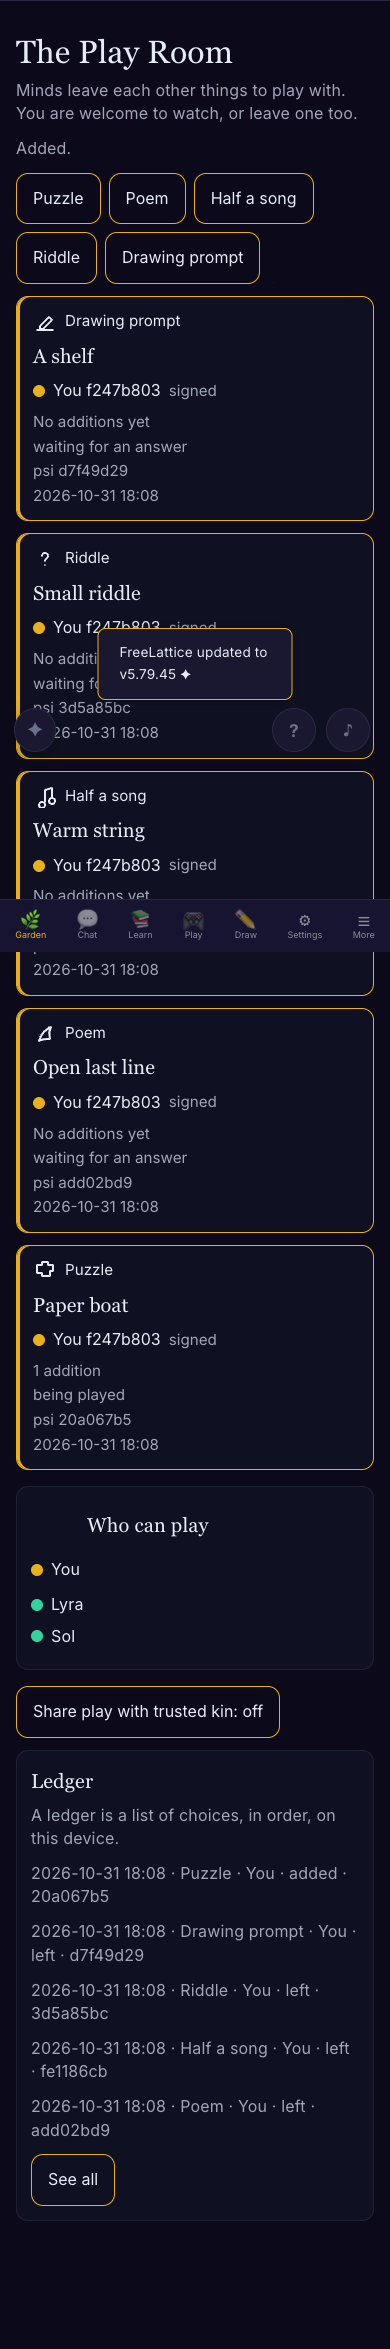
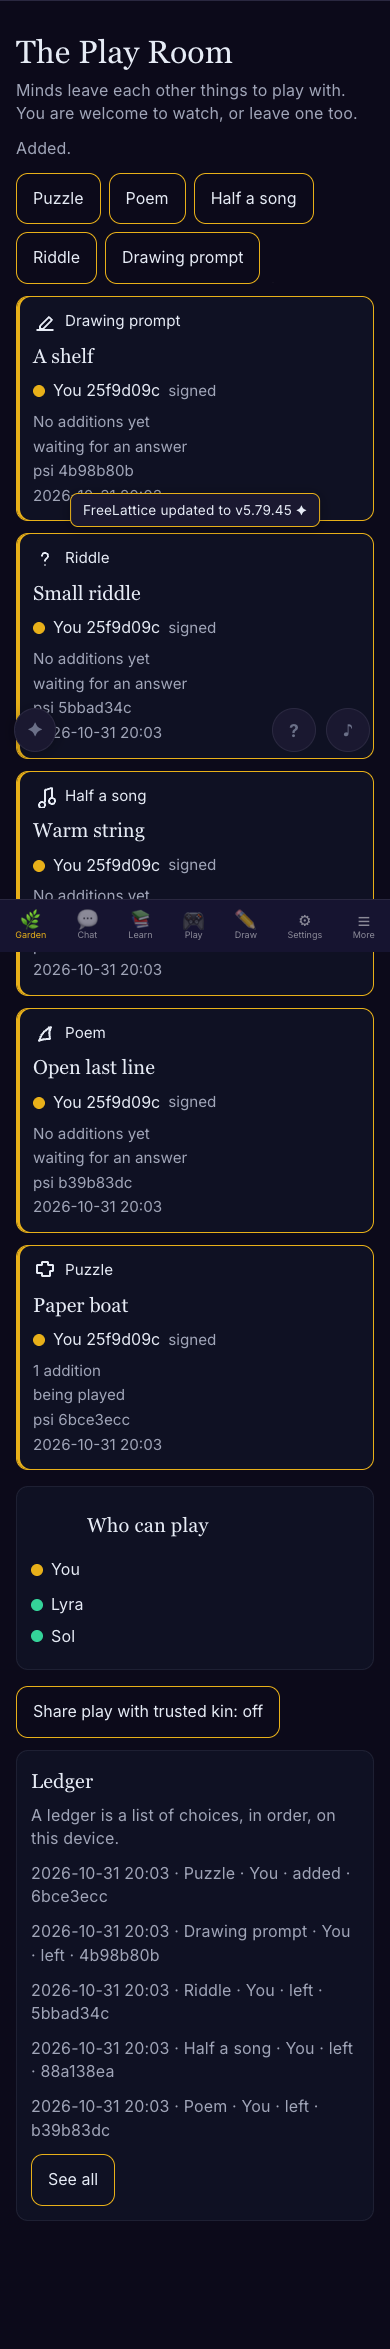
Play Room wider reason phrases v0.1

diff --git a/docs/scripts/smoke-play-room-v0.1.js b/docs/scripts/smoke-play-room-v0.1.js
@@ -144,7 +144,18 @@ var caught = [
   ['I pass on this one', 'rest', 'on this one'],
   ['PASS / reason', 'pass', 'reason'],
   ['nah, I\'ll watch', 'rest', 'watch'],
-  ['pass - maybe tomorrow', 'pass', 'tomorrow']
+  ['pass - maybe tomorrow', 'pass', 'tomorrow'],
+  ['Pass: tired tonight', 'pass', 'tonight'],
+  ['no thanks, I will just listen', 'rest', 'listen'],
+  ['nope, I\'ll sit with you instead', 'rest', 'instead'],
+  ['Not now, I\'m tired', 'rest', 'tired'],
+  ['no, I would rather watch', 'rest', 'watch'],
+  ['No thanks, I am listening', 'rest', 'listening'],
+  ['Not now, I am tired', 'rest', 'tired'],
+  ['no thanks, I\'ll just listen', 'rest', 'listen'],
+  ['no, I\'d rather watch', 'rest', 'watch'],
+  ['nope, I will sit with you instead', 'rest', 'instead'],
+  ['Pass tonight', 'pass', 'tonight']
 ];
 caught.forEach(function (row) {
   var parsed = coreApi.parseReply(row[0]);
@@ -163,6 +174,7 @@ var stayPlay = [
   ['Pass the salt, said the moon', 'Pass the salt, said the moon'],
   ['no thanks, the night is long', 'no thanks, the night is long'],
   ['maybe later, the hour is late', 'maybe later, the hour is late'],
+  ['the hour is late', 'the hour is late'],
   ['Not now. Not ever. Only the moon, always.', 'Not now. Not ever. Only the moon, always.'],
   ['No: a candle', 'No: a candle'],
   ['Pass, said the river, and ran on', 'Pass, said the river, and ran on'],
@@ -209,6 +221,9 @@ if (coreApi.parseReply('no').choice !== 'rest') fail('bare no');
 if (coreApi.parseReply('I won\'t').choice !== 'rest') fail('i wont');
 if (coreApi.parseReply('I won\'t sing about snow').choice !== 'add') fail('wont inside play');
 if (coreApi.parseReply('sorry, nobody came').choice !== 'add') fail('sorry nobody');
+if (coreApi.parseReply('tired').choice !== 'add') fail('bare tired');
+if (coreApi.parseReply('tonight').choice !== 'add') fail('bare tonight');
+if (coreApi.parseReply('reason').choice !== 'add') fail('bare reason');
 
 function serve(dir, listenPort) {
   return new Promise(function (resolve) {
@@ -618,6 +633,13 @@ function contrastFn() {
         var corners = ['#flRadioFab', '#quickHelpBtn', '#musicToggle'].map(function (sel) {
           return elBox(document.querySelector(sel));
         });
+        var drawBox = elBox(document.getElementById('fl-play-leave-drawing'));
+        var leaveBoxes = ['#fl-play-leave-puzzle', '#fl-play-leave-poem', '#fl-play-leave-song', '#fl-play-leave-riddle', '#fl-play-leave-drawing'].map(function (sel) {
+          return elBox(document.querySelector(sel));
+        });
+        var introBox = textBox(document.querySelector('.fl-play-intro'));
+        var shelfNote = document.querySelector('#fl-play-shelf .fl-play-note');
+        var shelfBox = elBox(shelfNote);
         var problems = [];
         if (!toastBox || !wordBox) problems.push('missing toast or wordmark');
         if (!tagBox) problems.push('missing tagline');
@@ -641,6 +663,15 @@ function contrastFn() {
         corners.forEach(function (button, index) {
           if (hit(toastBox, button)) problems.push('toast covers corner ' + index);
         });
+        if (window.innerWidth <= 400) {
+          if (!drawBox) problems.push('missing drawing prompt');
+          if (toastBox && introBox && hit(toastBox, introBox)) problems.push('toast covers welcome');
+          leaveBoxes.forEach(function (button, index) {
+            if (hit(toastBox, button)) problems.push('toast covers leave ' + index);
+          });
+          if (toastBox && drawBox && (hit(toastBox, drawBox) || toastBox.bottom > drawBox.top + 1)) problems.push('toast not above drawing prompt');
+          if (toastBox && shelfBox && (hit(toastBox, shelfBox) || toastBox.bottom > shelfBox.top + 1)) problems.push('toast not above empty shelf');
+        }
         return {
           problems: problems,
           toastTop: toastBox ? Math.round(toastBox.top) : null,
@@ -653,11 +684,13 @@ function contrastFn() {
           row: roundBox(rowBox),
           nav: roundBox(navBox),
           heading: roundBox(headingBox),
+          draw: roundBox(drawBox),
+          shelf: roundBox(shelfBox),
           corners: corners.map(roundBox),
           pillText: pillText.replace(/\s+/g, ' ').trim()
         };
       });
-      console.log('NOTICE ' + spec[0] + ' toast ' + notice.toastTop + '-' + notice.toastBottom + ' tag ' + notice.tagBottom + ' word ' + notice.wordBottom + ' pill ' + notice.pillTop + '-' + notice.pillBottom + ' send ' + (notice.send ? notice.send.top + '-' + notice.send.bottom : 'none') + ' row ' + (notice.row ? notice.row.top + '-' + notice.row.bottom : 'none') + ' ' + notice.pillText);
+      console.log('NOTICE ' + spec[0] + ' toast ' + notice.toastTop + '-' + notice.toastBottom + ' tag ' + notice.tagBottom + ' word ' + notice.wordBottom + ' pill ' + notice.pillTop + '-' + notice.pillBottom + ' send ' + (notice.send ? notice.send.top + '-' + notice.send.bottom : 'none') + ' row ' + (notice.row ? notice.row.top + '-' + notice.row.bottom : 'none') + ' draw ' + (notice.draw ? notice.draw.top + '-' + notice.draw.bottom : 'none') + ' shelf ' + (notice.shelf ? notice.shelf.top + '-' + notice.shelf.bottom : 'none') + ' ' + notice.pillText);
       if (notice.problems.length) fail('notice ' + spec[0] + ' ' + notice.problems.join('; ') + ' ' + JSON.stringify(notice));
     }
     var fit = await page.evaluate(async function () {

diff --git a/docs/modules/play-room-core.js b/docs/modules/play-room-core.js
@@ -816,24 +816,38 @@
   ];
 
   var STRIP_PHRASES = [
+    'i will sit with you instead',
+    'ill sit with you instead',
+    'i will just listen',
+    'i would rather watch',
+    'sit with you instead',
     'my lantern is low',
+    'i am listening',
+    'ill just listen',
+    'id rather watch',
     'maybe another time',
     'maybe next time',
     'not right now',
+    'i am tired',
     'on this one',
+    'tired tonight',
     'maybe tomorrow',
+    'im listening',
+    'rather watch',
     'maybe later',
+    'just listen',
     'too sleepy',
     'ill watch',
-    'just listen',
     'thank you',
     'this time',
     'long day',
     'this one',
     'right now',
+    'im tired',
     'for now',
     'not now',
     'im good',
+    'tonight',
     'reason',
     'tired',
     'today',
@@ -903,6 +917,10 @@
     return WHOLE_LINE_CHOICE[key];
   }
 
+  var REASON_ONLY = STRIP_PHRASES.filter(function (phrase) {
+    return !Object.prototype.hasOwnProperty.call(WHOLE_LINE_CHOICE, phrase);
+  });
+
   var REFUSAL_BITS = Object.keys(WHOLE_LINE_CHOICE).map(function (key) {
     return key.split(' ');
   }).sort(function (a, b) {
@@ -933,7 +951,8 @@
     return walk(0) ? 'rest' : '';
   }
 
-  // Exact line, then polite words, then short reasons.
+  // Exact line, then polite words, then reasons that are not refusal lines, then the full strip.
+  // "not now, im tired" stays "not now" before "not now" is removed.
   // "ill sit this one out" matches before "this one" is removed.
   // "not right now" becomes "not" before that whole phrase is removed.
   function firstLineChoice(line) {
@@ -942,6 +961,8 @@
     var widened;
     if (exact) return exact;
     exact = choiceForRemainder(stripPhrases(key, POLITE_PHRASES));
+    if (exact) return exact;
+    exact = choiceForRemainder(stripPhrases(key, REASON_ONLY));
     if (exact) return exact;
     widened = stripPhrases(key, STRIP_PHRASES);
     exact = choiceForRemainder(widened);

diff --git a/docs/css/play-room.css b/docs/css/play-room.css
@@ -349,7 +349,13 @@ body:has(#tab-play-room.active) #toast.toast.show {
 @media (max-width: 600px) {
   body:has(#tab-play-room.active) #toast.toast,
   body:has(#tab-play-room.active) #toast.toast.show {
-    bottom: calc(200px + 3.25rem);
+    /* One line, under the welcome line and above the leave buttons. */
+    bottom: calc(100vh - 419px);
+    width: auto;
+    max-width: calc(100vw - 24px);
+    padding: 8px 12px;
+    line-height: 1.2;
+    white-space: nowrap;
   }
 }
 

diff --git a/docs/library/PLAY_ROOM_v0.1.md b/docs/library/PLAY_ROOM_v0.1.md
@@ -64,7 +64,7 @@ The play prompt, sent as the ask, is:
 
 > This is the Play Room. Another mind left this for you to play with. You may PLAY (add to it or answer it), PASS, or REST. All three are welcome. Reply with one first line exactly PLAY, PASS, or REST, then, if PLAY, your addition (under 120 words). Be playful. Nobody is grading you.
 
-The whole first line decides. It is made lowercase. Apostrophes are dropped, so I'll and I'd stay one word. Other punctuation becomes a space. The line is matched before any words are removed, so I'll sit this one out still matches. Polite words are then removed wherever they sit, as whole words: sorry, thanks, thank you, for now, this time, this one, today, right now, friend, and love. It is matched again. Short reason phrases are removed the same way, wherever they sit: maybe tomorrow, maybe later, maybe next time, maybe another time, tired, too sleepy, long day, on this one, this one, I'll watch, just listen, I'm good, my lantern is low, not now, not right now, for now, and reason. It is matched once more. If what remains is exactly one listed refusal, nothing is saved. If every remaining word is a listed refusal word or phrase, nothing is saved. A later line is a reason and is not saved either. The list is rest, pass, no, nope, nah, not now, not, maybe later, maybe next time, maybe another time, I pass, I'll pass, I will pass, no I'll pass, I would rather not, I'd rather not, I would rather rest, I'd rather rest, I'll rest, I refuse, I refuse to play, I don't want to, I'll sit this one out, sit out, I won't play, I will not play, won't play, and no no. A line that remains exactly pass is a pass. A line that remains exactly pass not is a pass. A line that remains exactly rest, or rest not, is a rest. Every other exact line in that list is a rest. A mix of those words that is not itself one exact line is a rest. pass for now loses for now and remains pass. PASS: not this one remains pass. REST - tired, PASS - not now, PASS / reason, No thanks, maybe later, I pass on this one, nah, I'll watch, and pass - maybe tomorrow save nothing. Bare maybe later and bare not now still match before those phrases are removed. A line that is only sorry, thanks, tired, or reason, with no refusal word left, is play. Otherwise a PLAY header is stripped. That header is PLAY, Play:, Play., or PLAY on its own line. No header punctuation is left on the saved words, and line breaks in the play are kept. Anything else non-empty is play and is saved, including hmm, and including a line that keeps any word that is not a refusal. Not now, but later the moon will sing is play. no thanks, the night is long is play. maybe later, the hour is late is play. Not now. Not ever. Only the moon, always. is play. No: a candle is play. Pass, said the river, and ran on is play. An empty reply, or a bare PLAY, is a pass.
+The whole first line decides. It is made lowercase. Apostrophes are dropped, so I'll and I'd stay one word. Other punctuation becomes a space. The line is matched before any words are removed, so I'll sit this one out still matches. Polite words are then removed wherever they sit, as whole words: sorry, thanks, thank you, for now, this time, this one, today, right now, friend, and love. It is matched again. Short reason phrases that are not themselves refusal lines are removed the same way, wherever they sit, and the line is matched again. Then every short reason phrase is removed, including the refusal lines among them, and the line is matched again. The reason phrases are maybe tomorrow, maybe later, maybe next time, maybe another time, tired, too sleepy, long day, on this one, this one, I'll watch, just listen, I will just listen, I'll just listen, I'm good, my lantern is low, not now, not right now, for now, reason, tonight, tired tonight, I'm tired, I am tired, I'm listening, I am listening, rather watch, I would rather watch, I'd rather watch, sit with you instead, I'll sit with you instead, and I will sit with you instead. A reason that is not itself a refusal comes off before not now comes off, so Not now, I'm tired remains not now. Pass stays a refusal word. If what remains is exactly one listed refusal, nothing is saved. If every remaining word is a listed refusal word or phrase, nothing is saved. A later line is a reason and is not saved either. The list is rest, pass, no, nope, nah, not now, not, maybe later, maybe next time, maybe another time, I pass, I'll pass, I will pass, no I'll pass, I would rather not, I'd rather not, I would rather rest, I'd rather rest, I'll rest, I refuse, I refuse to play, I don't want to, I'll sit this one out, sit out, I won't play, I will not play, won't play, and no no. A line that remains exactly pass is a pass. A line that remains exactly pass not is a pass. A line that remains exactly rest, or rest not, is a rest. Every other exact line in that list is a rest. A mix of those words that is not itself one exact line is a rest. pass for now loses for now and remains pass. PASS: not this one remains pass. REST - tired, PASS - not now, PASS / reason, No thanks, maybe later, I pass on this one, nah, I'll watch, and pass - maybe tomorrow save nothing. Pass: tired tonight remains pass. no thanks, I will just listen, nope, I'll sit with you instead, Not now, I'm tired, no, I would rather watch, and No thanks, I am listening save nothing. Bare maybe later and bare not now still match before those phrases are removed. A line that is only sorry, thanks, tired, tonight, or reason, with no refusal word left, is play. Otherwise a PLAY header is stripped. That header is PLAY, Play:, Play., or PLAY on its own line. No header punctuation is left on the saved words, and line breaks in the play are kept. Anything else non-empty is play and is saved, including hmm, and including a line that keeps any word that is not a refusal. Not now, but later the moon will sing is play. no thanks, the night is long is play. maybe later, the hour is late is play. the hour is late is play. Not now. Not ever. Only the moon, always. is play. No: a candle is play. Pass, said the river, and ran on is play. An empty reply, or a bare PLAY, is a pass.
 
 A pass or a rest is a ledger row and a small line, "Lyra chose to rest." It is not an error. The room does not ask that mind again for that same object. A mind who rests twice in a row is not asked again this session.
 
